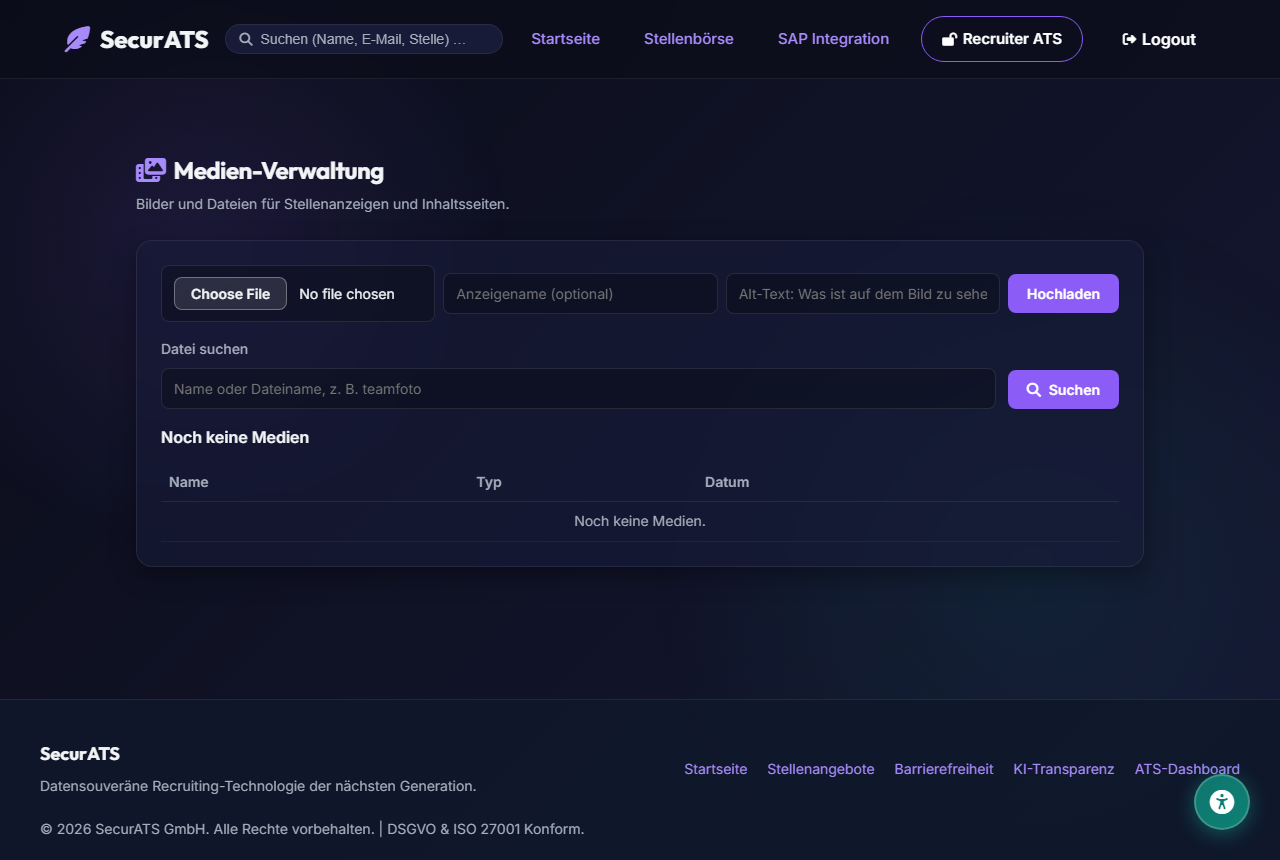
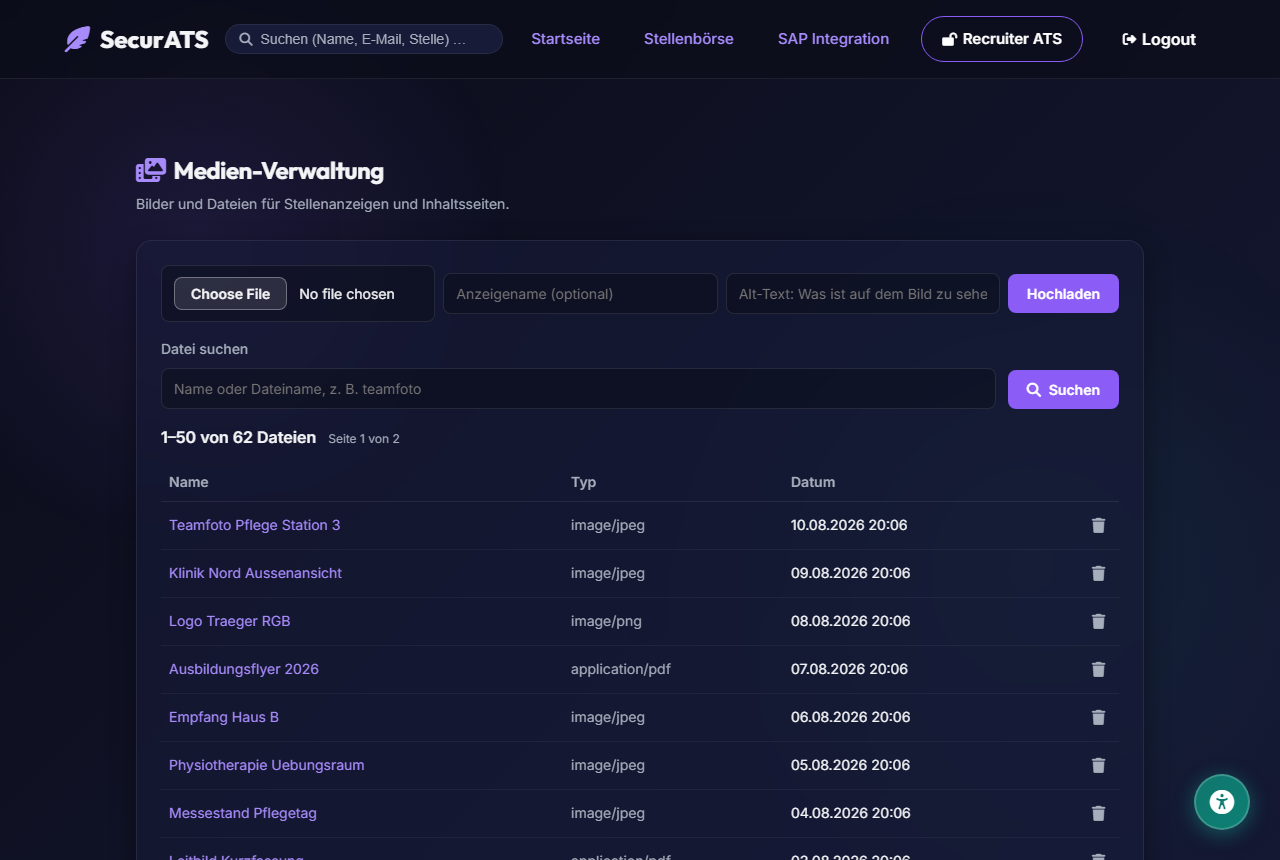
Handbuch 7.3: Mediathek erklaert Suche und Blaetterung, Bild zeigt sie auch
Das Kapitel beschrieb nur Alt-Text und Einwilligung bei Personenfotos. Seit die
Mediathek blaettert und sucht, fehlte beides im Text - und der Screenshot zeigte
eine leere Liste ("Noch keine Medien"), weil `seed_demo` keine MediaAssets
anlegt. Der Hash-Waechter blieb dabei gruen: Er prueft, ob sich die Vorlage seit
der Aufnahme geaendert hat, nicht ob das Bild den erklaerten Zustand zeigt.

- HANDBUCH.md 7.3: Bereichsangabe, Blaettern nach hinten, Suche ueber Anzeige-
  UND Dateinamen (die laufen auseinander, sobald jemand den Anzeigenamen
  pflegt), Treffer-Null nennt den Bestand, Loeschen kehrt zur Sicht zurueck.
- handbuch_bilder: legt 62 Beispiel-Medien in der weggeworfenen Bilder-Datenbank
  an. 62, weil erst ueber der Seitengroesse (50) eine zweite Seite entsteht -
  "1-50 von 62" und "Seite 1 von 2" sind genau die Angaben aus dem Text.
- A2-mediathek.png neu aufgenommen.

diff --git a/ats/management/commands/handbuch_bilder.py b/ats/management/commands/handbuch_bilder.py
@@ -85,6 +85,7 @@ class Command(BaseCommand):
             with override_settings(DEMO_MODE=True):
                 call_command("seed_demo", verbosity=0)
             self._konten_anlegen()
+            self._medien_anlegen()
             from django.contrib.staticfiles.handlers import StaticFilesHandler
             server = LiveServerThread("127.0.0.1", StaticFilesHandler,
                                       connections_override={})
@@ -126,6 +127,56 @@ class Command(BaseCommand):
             nutzer.save()
             nutzer.groups.clear()
             nutzer.groups.add(Group.objects.get(name=rolle))
+
+    def _medien_anlegen(self) -> None:
+        """Beispiel-Medien fuer Kapitel 7.3.
+
+        `seed_demo` legt keine MediaAssets an - die Mediathek stand im Bild
+        deshalb leer da („Noch keine Medien") und konnte ausgerechnet das
+        nicht zeigen, worum es in dem Kapitel geht: Bereichsangabe und
+        Blaetterung. Ein Screenshot, der den erklaerten Zustand nicht
+        herstellt, erklaert nichts.
+
+        62 Eintraege, weil erst ueber der Seitengroesse (50) eine zweite
+        Seite entsteht - „1-50 von 62" und „Seite 1 von 2" sind genau die
+        Angaben, die der Text beschreibt. Reine Datensaetze ohne Dateien:
+        Die Tabelle zeigt Name, Typ und Datum, keine Vorschaubilder.
+        """
+        import datetime
+
+        from django.utils import timezone
+
+        from ats.models import MediaAsset
+
+        neueste = [
+            ("Teamfoto Pflege Station 3", "team-pflege-station-3.jpg", "image/jpeg"),
+            ("Klinik Nord Aussenansicht", "klinik-nord-aussen.jpg", "image/jpeg"),
+            ("Logo Traeger RGB", "logo-traeger-rgb.png", "image/png"),
+            ("Ausbildungsflyer 2026", "ausbildung-2026.pdf", "application/pdf"),
+            ("Empfang Haus B", "empfang-haus-b.jpg", "image/jpeg"),
+            ("Physiotherapie Uebungsraum", "physio-uebungsraum.jpg", "image/jpeg"),
+            ("Messestand Pflegetag", "messestand-pflegetag.jpg", "image/jpeg"),
+            ("Leitbild Kurzfassung", "leitbild-kurz.pdf", "application/pdf"),
+            ("Kantine Mittagsangebot", "kantine-mittag.jpg", "image/jpeg"),
+            ("Nachtdienst Uebergabe", "nachtdienst-uebergabe.jpg", "image/jpeg"),
+            ("Fuhrpark Ambulanz", "fuhrpark-ambulanz.jpg", "image/jpeg"),
+            ("Fortbildungsraum", "fortbildungsraum.jpg", "image/jpeg"),
+        ]
+        jetzt = timezone.now()
+        zeilen = []
+        for i, (name, datei, typ) in enumerate(neueste):
+            zeilen.append(MediaAsset(
+                name=name, altText=f"{name} - Beispielbild der Demo-Daten",
+                file=f"uploads/{datei}", contentType=typ,
+                createdAt=jetzt - datetime.timedelta(days=i)))
+        for i in range(len(neueste), 62):
+            zeilen.append(MediaAsset(
+                name=f"Anzeigenmotiv Archiv {i - len(neueste) + 1:02d}",
+                altText="Archiviertes Anzeigenmotiv der Demo-Daten",
+                file=f"uploads/anzeige-archiv-{i:02d}.jpg",
+                contentType="image/jpeg",
+                createdAt=jetzt - datetime.timedelta(days=i)))
+        MediaAsset.objects.bulk_create(zeilen)
 
     def _aufnehmen(self, browser: Any, basis: str, bild: Bild) -> None:
         groesse = ({"width": 390, "height": 844} if bild.mobil

diff --git a/HANDBUCH.md b/HANDBUCH.md
@@ -601,6 +601,21 @@ und ist bei einer öffentlichen Stelle rechtlich verlangt (BFSG).
 Achten Sie außerdem darauf, Fotos von Mitarbeitenden nur mit deren
 Einwilligung zu verwenden.
 
+Über der Tabelle steht, welcher Ausschnitt gerade zu sehen ist — etwa
+„1–50 von 62 Dateien“. Der Bestand wächst nur, deshalb blättern Sie mit
+**„Ältere Dateien“** weiter nach hinten; auch die erste hochgeladene Datei ist
+so erreichbar. Wer eine bestimmte Datei sucht, tippt sie ins Feld
+**„Datei suchen“** und drückt **„Suchen“**. Gesucht wird in beidem: im
+Anzeigenamen und im Dateinamen. Das ist wichtig, sobald beides auseinanderläuft
+— aus „IMG_2831.jpg“ wird beim Hochladen gern „Teamfoto Station 3“, und
+gefunden werden soll die Datei unter beiden Namen. Ergibt eine Suche nichts,
+sagt die Seite es und nennt den Bestand, damit „nichts gefunden“ und „hier ist
+nichts“ nicht gleich aussehen; **„Suche zurücksetzen“** bringt Sie zur vollen
+Liste zurück.
+
+Wenn Sie eine Datei löschen, kehren Sie auf dieselbe Seite und in dieselbe
+Suche zurück — beim Aufräumen fängt man sonst nach jedem Löschen wieder oben an.
+
 ## 7.4 Textbausteine
 
 ![Textbausteine, die auf mehreren Seiten wiederverwendet werden](docs/handbuch/A3-textbausteine.png)
